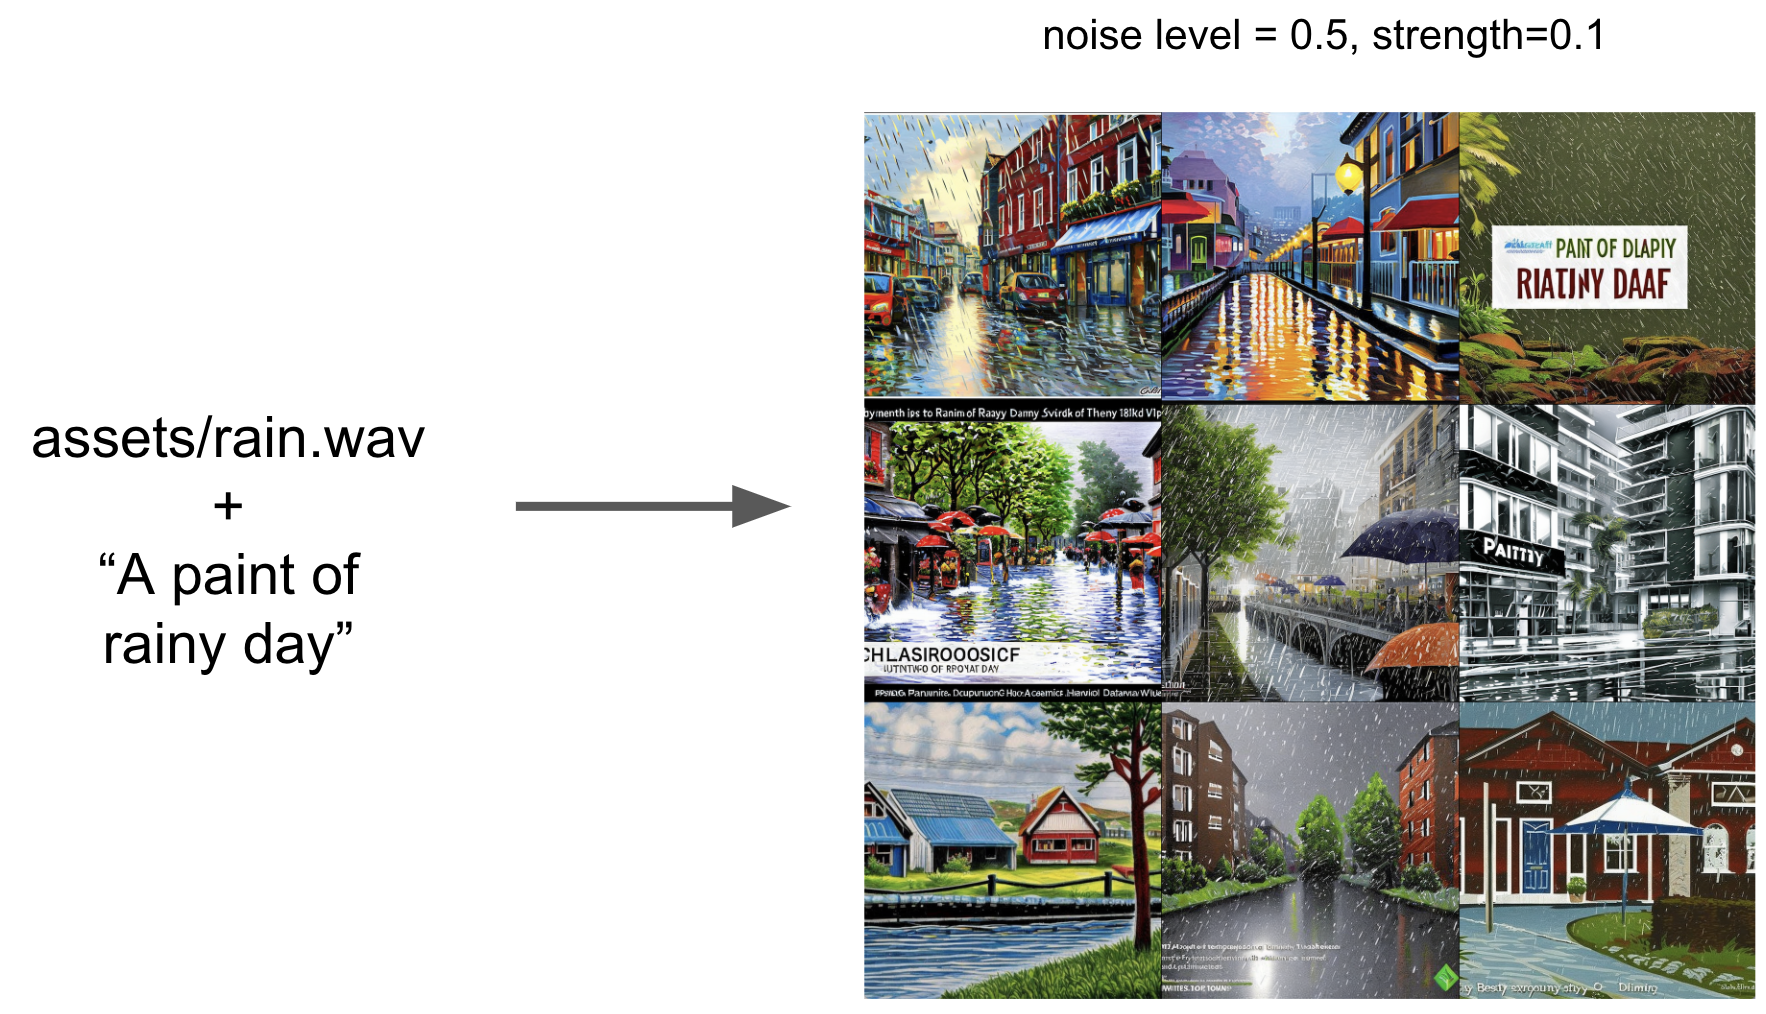
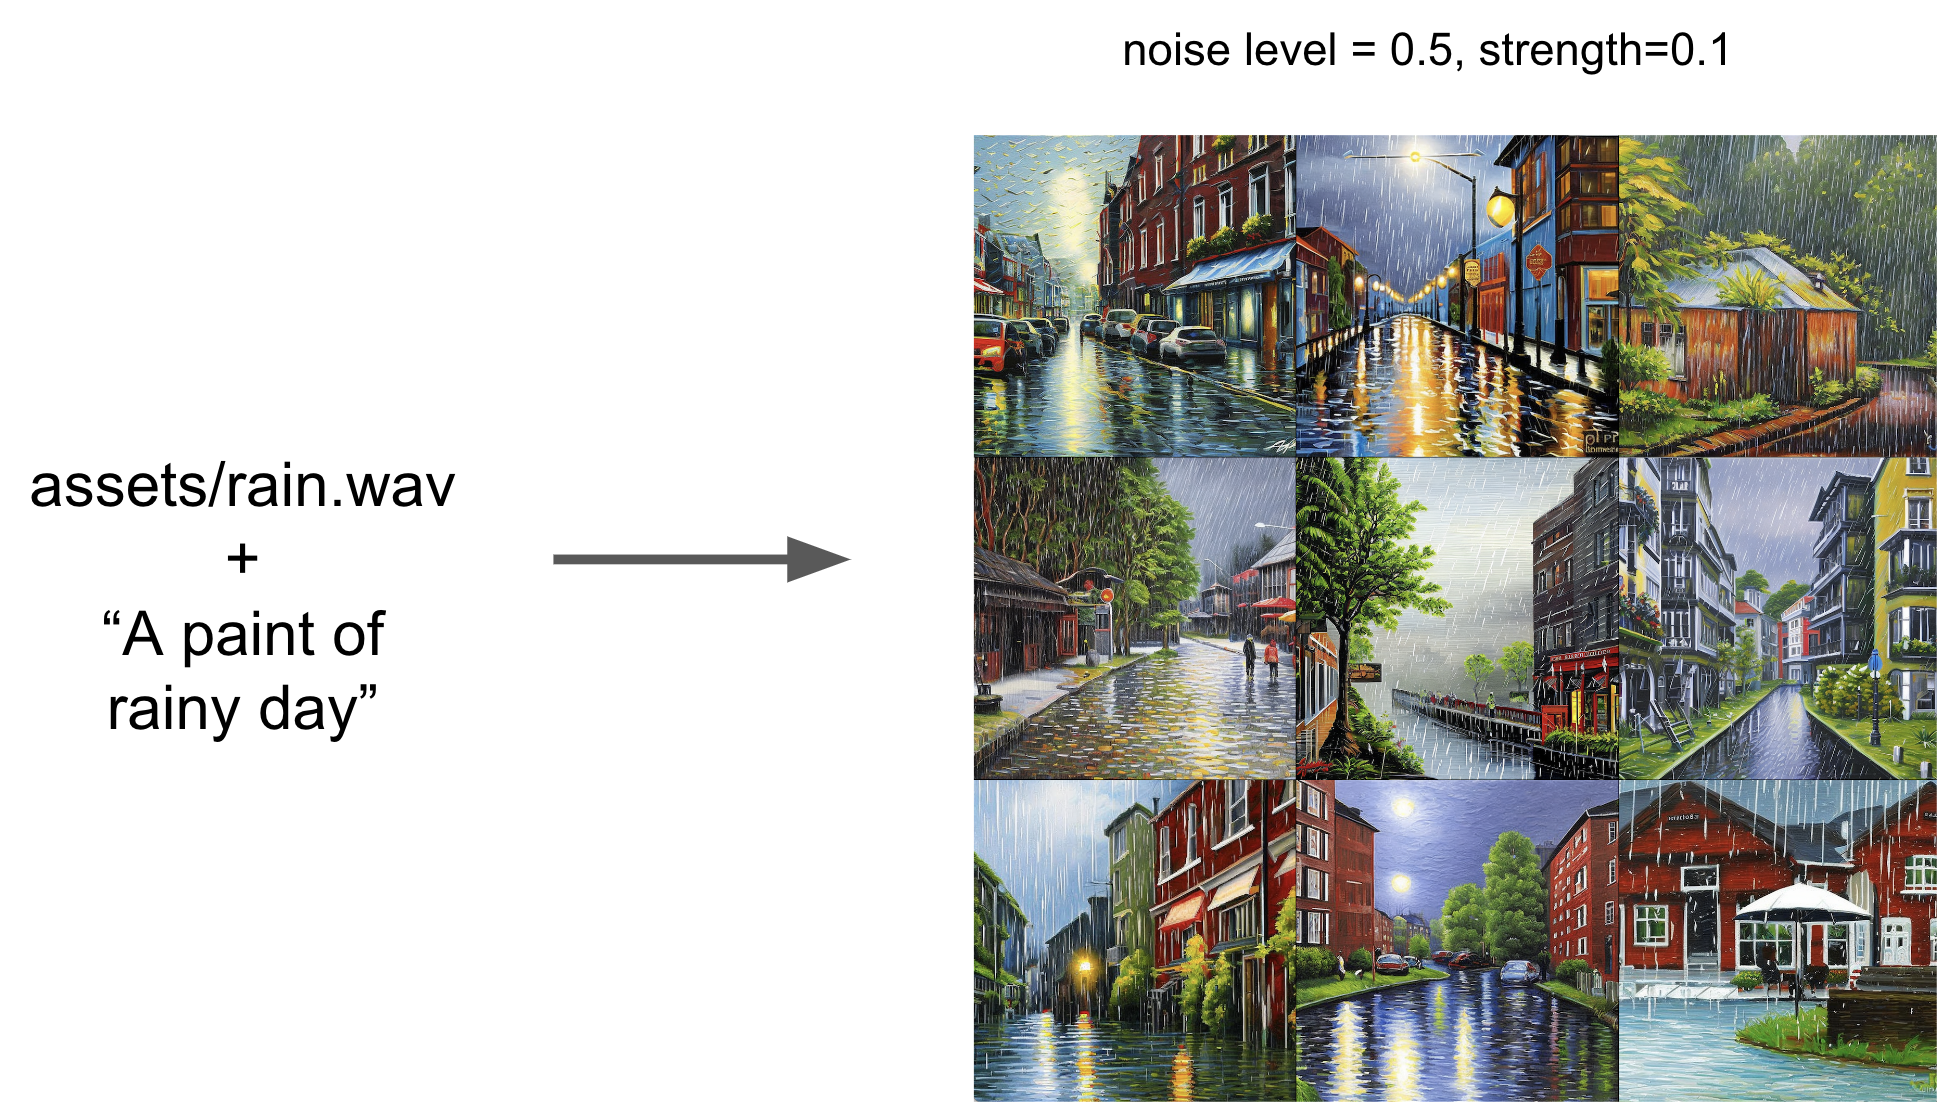
update

diff --git a/main_bind.py b/main_bind.py
@@ -119,7 +119,7 @@ def parse_args():
         help="use plms sampling",
     )
     parser.add_argument(
-        "--uc-keep",
+        "--uc-zero",
         action='store_true',
         help="use plms sampling",
     )
@@ -336,7 +336,7 @@ def main(opt):
                     c_adm = torch.cat((c_adm, noise_level_emb), 1)
                 if opt.scale != 1.0:
                     uc = model.get_learned_conditioning(batch_size * [n_prompt])
-                if not opt.uc_keep:
+                if opt.uc_zero:
                     uc = {"c_crossattn": [uc], "c_adm": torch.zeros_like(c_adm)}
                 else:
                     uc = {"c_crossattn": [uc], "c_adm": c_adm}

diff --git a/main_multi_bind.py b/main_multi_bind.py
@@ -335,7 +335,7 @@ def main(opt):
                     c_adm = torch.cat((c_adm, noise_level_emb), 1)
                 if opt.scale != 1.0:
                     uc = model.get_learned_conditioning(batch_size * [n_prompt])
-                uc = {"c_crossattn": [uc], "c_adm": torch.zeros_like(c_adm)}
+                uc = {"c_crossattn": [uc], "c_adm": c_adm}
                 if isinstance(prompts, tuple):
                     prompts = list(prompts)
                 c = {"c_crossattn": [model.get_learned_conditioning(prompts)], "c_adm": c_adm}
